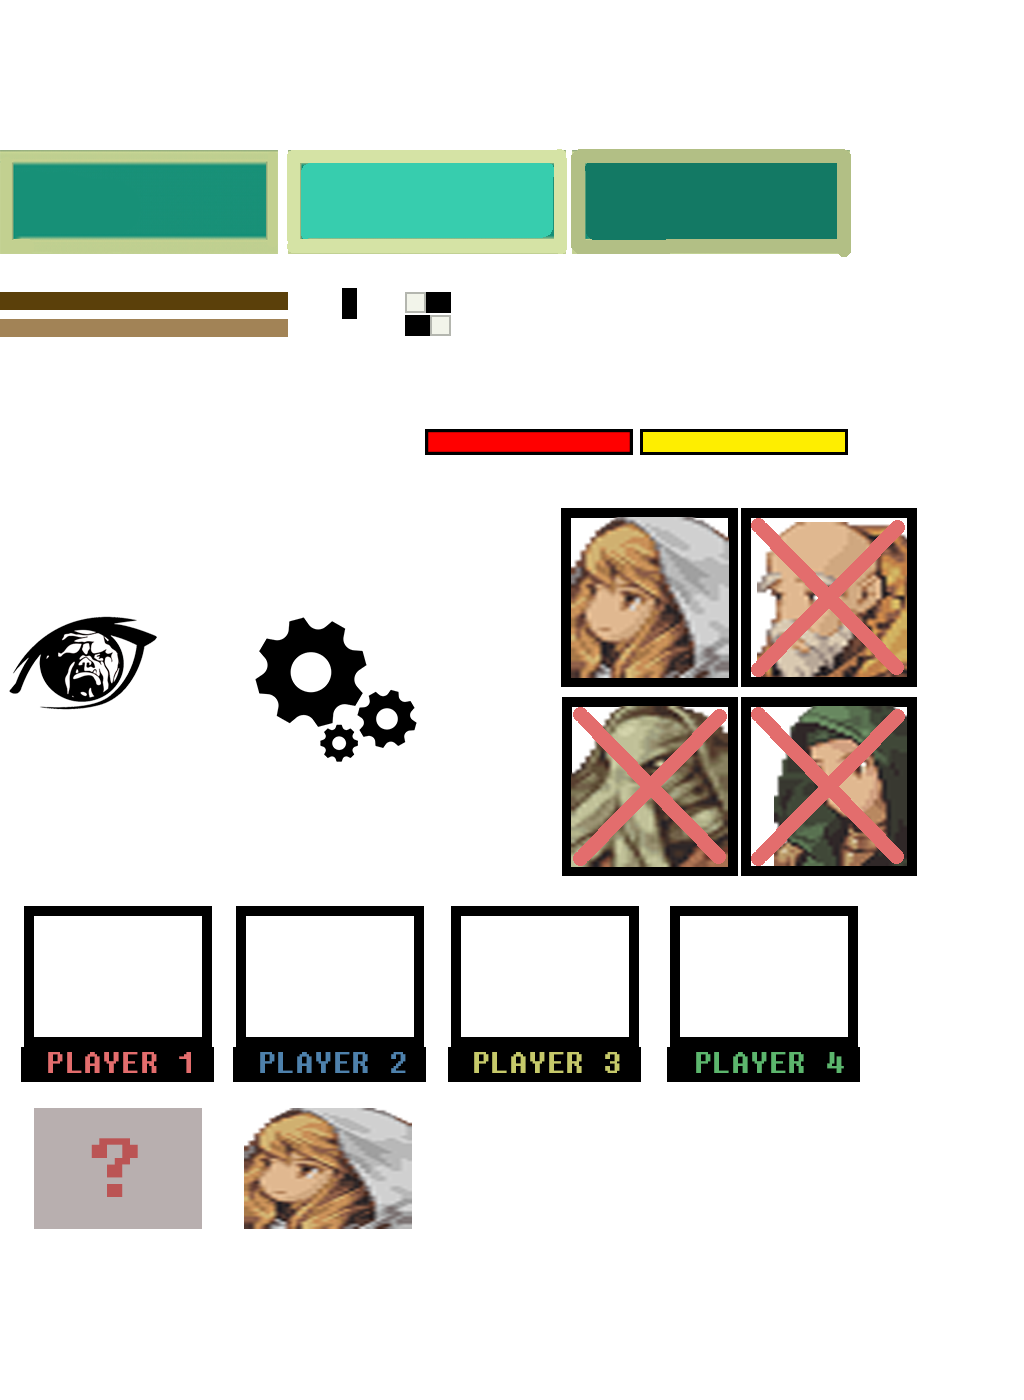
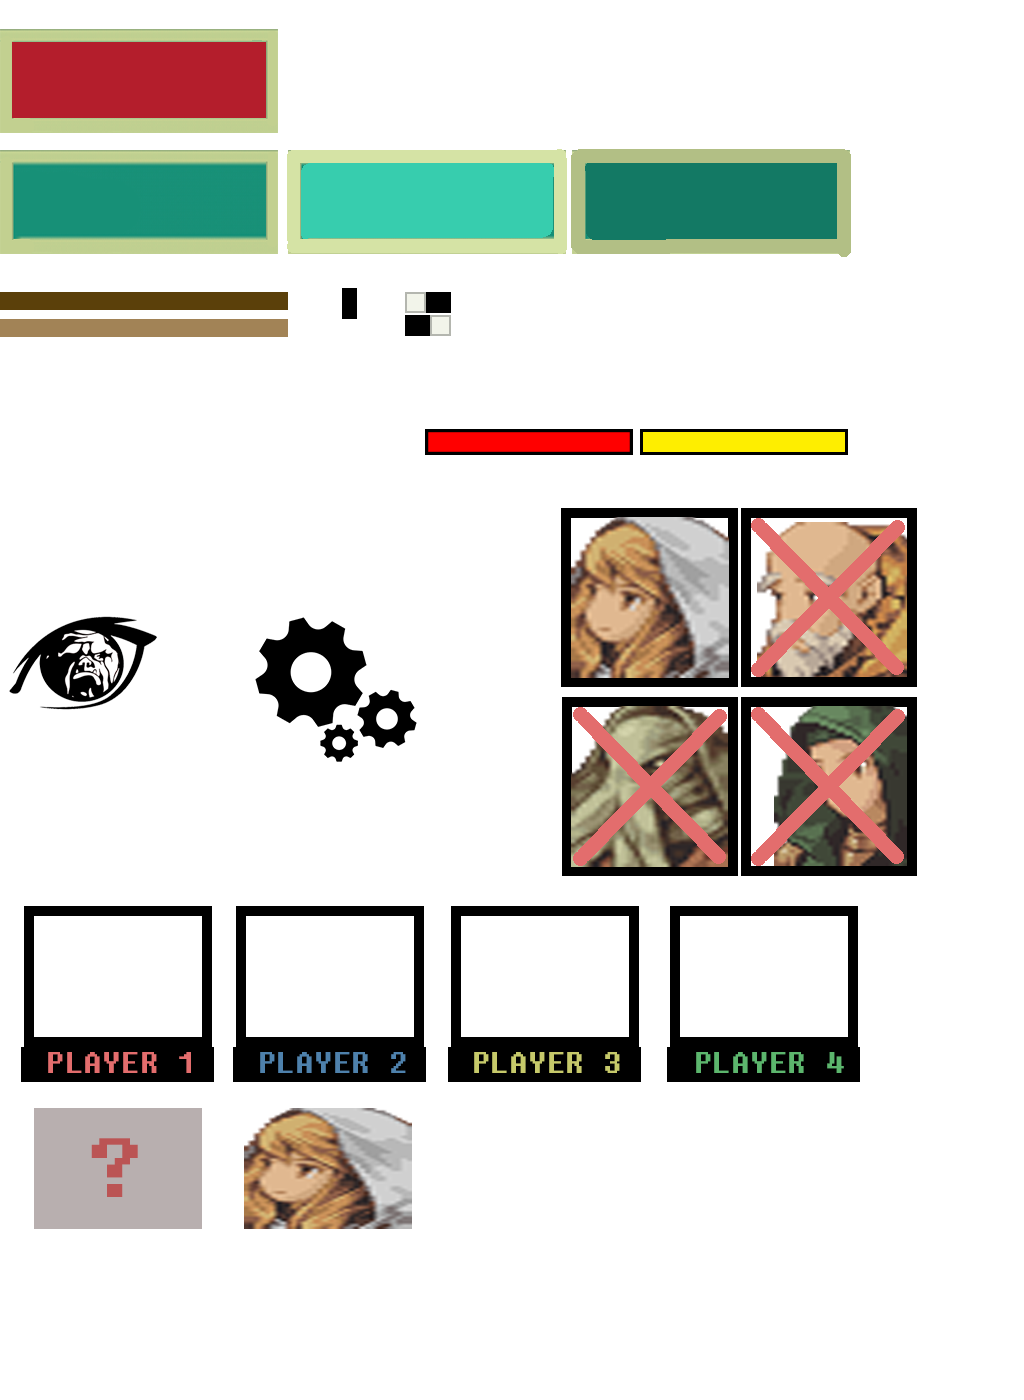
Improving champion selection ready button

Changed region(s): [[0.0, 0.0, 0.2812, 0.0921]]

diff --git a/FantasyBrawl_Project/Motor2D/j1UIScene.cpp b/FantasyBrawl_Project/Motor2D/j1UIScene.cpp
@@ -168,8 +168,8 @@ bool j1UIScene::Start()
 		mark4 = App->gui->createImageFromAtlas(812, 591, { 33, 1107, 169,122 }, this);
 
 		//READY BUTTON
-		ready = App->gui->createButton(700 * App->gui->UI_scale, 250 * App->gui->UI_scale, NULL, { 0,148,281,111 }, { 281,148,281,111 }, { 562,148,281,111 }, this);
-				
+		ready = App->gui->createButton(700 * App->gui->UI_scale, 330 * App->gui->UI_scale, NULL, { 0,28,278,105 }, { 0,28,278,105 }, { 0,28,278,105 }, this);//{ 281,148,281,111 }, { 562,148,281,111 }
+		ready_text = App->gui->createText("READY", 780, 340, big_buttons_font, black_color);
 
 		championSelection->elements.push_back(selection_image);
 		championSelection->elements.push_back(selection_text);
@@ -186,6 +186,7 @@ bool j1UIScene::Start()
 		championSelection->elements.push_back(mark3);
 		championSelection->elements.push_back(mark4);
 		championSelection->elements.push_back(ready);
+		championSelection->elements.push_back(ready_text);
 		menus.push_back(championSelection);
 	}
 
@@ -217,11 +218,11 @@ bool j1UIScene::Start()
 		audio_text->setOutlined(true);
 
 		//FULLSCREEN
-		Button* full_switch = App->gui->createSwitch(600, 415, NULL, { 404, 291, 47, 22 }, { 404, 291, 47, 22 }, { 404, 314, 47, 22 }, { 404, 314, 47, 22 }, this);
+		/*Button* full_switch = App->gui->createSwitch(600, 415, NULL, { 404, 291, 47, 22 }, { 404, 291, 47, 22 }, { 404, 314, 47, 22 }, { 404, 314, 47, 22 }, this);
 		settings_image->appendChild(550 * App->gui->UI_scale, 325 * App->gui->UI_scale, full_switch);
 
 		UI_element* fullscreen_text = App->gui->createText("FULLSCREEN", 280, 400, mid_buttons_font, brown_color);
-		fullscreen_text->setOutlined(true);
+		fullscreen_text->setOutlined(true);*/
 
 
 		
@@ -232,8 +233,8 @@ bool j1UIScene::Start()
 		settingsMenu->elements.push_back(music_slider_butt);
 		settingsMenu->elements.push_back(music_slider);
 		settingsMenu->elements.push_back(audio_text);
-		settingsMenu->elements.push_back(full_switch);
-		settingsMenu->elements.push_back(fullscreen_text);
+		/*settingsMenu->elements.push_back(full_switch);
+		settingsMenu->elements.push_back(fullscreen_text);*/
 		menus.push_back(settingsMenu);
 	}
 
@@ -262,11 +263,11 @@ bool j1UIScene::Start()
 		audio_text->setOutlined(true);
 
 		//FULLSCREEN
-		Button* full_switch = App->gui->createSwitch(600, 415, NULL, { 404, 291, 47, 22 }, { 404, 291, 47, 22 }, { 404, 314, 47, 22 }, { 404, 314, 47, 22 }, this);
+		/*Button* full_switch = App->gui->createSwitch(600, 415, NULL, { 404, 291, 47, 22 }, { 404, 291, 47, 22 }, { 404, 314, 47, 22 }, { 404, 314, 47, 22 }, this);
 		
 
 		UI_element* fullscreen_text = App->gui->createText("FULLSCREEN", 330, 400, mid_buttons_font, brown_color);
-		fullscreen_text->setOutlined(true);
+		fullscreen_text->setOutlined(true);*/
 
 
 
@@ -277,8 +278,8 @@ bool j1UIScene::Start()
 		pauseMenu->elements.push_back(music_slider_butt);
 		pauseMenu->elements.push_back(music_slider);
 		pauseMenu->elements.push_back(audio_text);
-		pauseMenu->elements.push_back(full_switch);
-		pauseMenu->elements.push_back(fullscreen_text);
+		/*pauseMenu->elements.push_back(full_switch);
+		pauseMenu->elements.push_back(fullscreen_text);*/
 		menus.push_back(pauseMenu);
 	}
 
@@ -400,8 +401,13 @@ bool j1UIScene::Update(float dt)
 
 	if (player1_select == true && player2_select == true && player3_select == true && player4_select == true)
 	{
+		ready->section = { 281,148,281,111 };
 		ready->function = INGAME;
 		
+	}
+	else
+	{
+		ready->section = { 0,28,278,105 };
 	}
 
 	return ret;

diff --git a/FantasyBrawl_Project/Motor2D/UI_Text.cpp b/FantasyBrawl_Project/Motor2D/UI_Text.cpp
@@ -77,7 +77,7 @@ void Text::BlitElement()
 
 			App->render->Blit(outline, globalPos.x + outline_offset.x, globalPos.y + outline_offset.y, NULL);
 		}
-		App->render->Blit(texture, globalPos.x, globalPos.y, NULL, false, App->gui->UI_scale);
+		App->render->Blit(texture, globalPos.x, globalPos.y, NULL, false/*, App->gui->UI_scale*/);
 	}
 }
 

diff --git a/FantasyBrawl_Project/Motor2D/j1UIScene.h b/FantasyBrawl_Project/Motor2D/j1UIScene.h
@@ -96,7 +96,10 @@ public:
 	UI_element* mark2 = nullptr;
 	UI_element* mark3 = nullptr;
 	UI_element* mark4 = nullptr;
+
+	//READY
 	UI_element* ready = nullptr;
+	UI_element* ready_text = nullptr;
 
 	//SELECTION BOOLS
 	int counter = 0;
